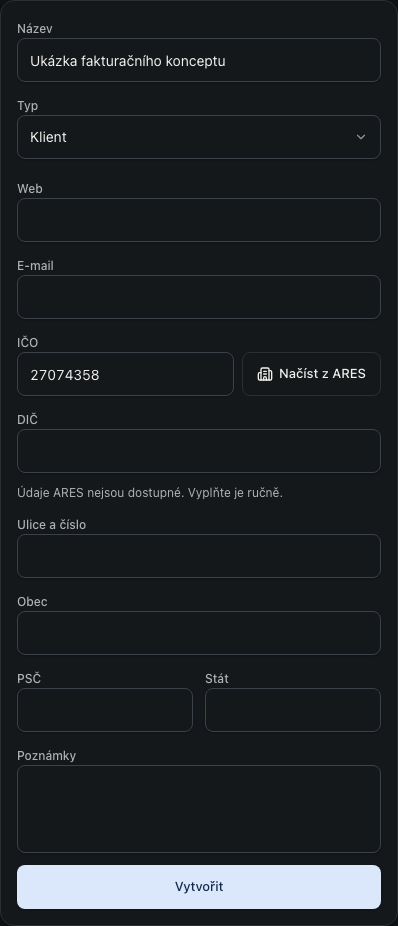
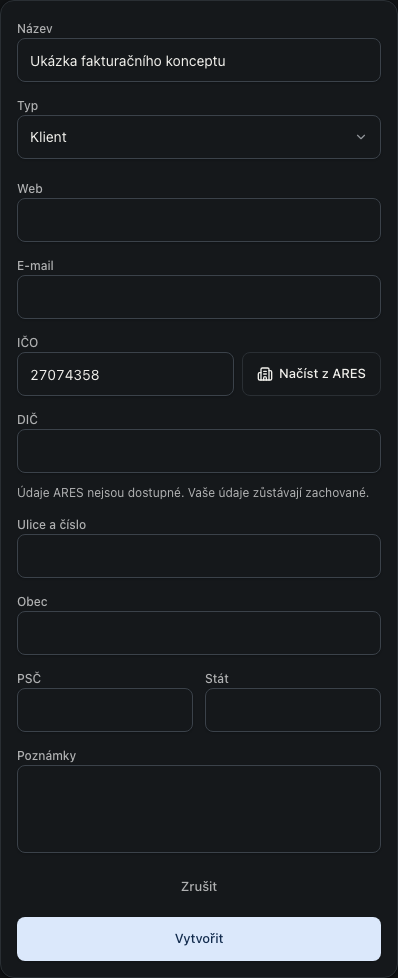
Refresh the visual audit with captured client recovery states

diff --git a/docs/reports/app-wide-audit-2026-10-23/visual-plan.html b/docs/reports/app-wide-audit-2026-10-23/visual-plan.html
@@ -4,16 +4,22 @@
 :root{color-scheme:light dark;--canvas:#f4f5f7;--surface:#fff;--ink:#1e2329;--muted:#59616c;--line:#d9dee5;--accent:#245db2;--tint:#eaf1fc;--mark:#e5a122;font-family:system-ui,-apple-system,BlinkMacSystemFont,"Segoe UI",sans-serif;line-height:1.55}
 *{box-sizing:border-box}body{margin:0;background:var(--canvas);color:var(--ink)}main{max-width:1240px;margin:auto;padding:40px 24px 64px}h1{font-size:clamp(28px,4vw,42px);letter-spacing:-.035em;line-height:1.15;margin:10px 0 16px}h2{font-size:23px;letter-spacing:-.025em;margin:0}h3{font-size:17px;margin:0 0 8px}p{margin:0 0 14px}.eyebrow{font-size:12px;font-weight:650;letter-spacing:.08em;text-transform:uppercase;color:var(--muted)}.intro{max-width:780px;font-size:17px}.notice{padding:16px 18px;background:var(--tint);border:1px solid var(--line);border-radius:10px;margin:24px 0}.meta,.source{font-size:13px;color:var(--muted)}a{color:var(--accent);text-underline-offset:3px}a:focus-visible,button:focus-visible,input:focus-visible,select:focus-visible,.screen-scroll:focus-visible,.table-scroll:focus-visible{outline:3px solid var(--accent);outline-offset:3px}.toolbar{display:flex;flex-wrap:wrap;align-items:center;gap:12px;border-block:1px solid var(--line);padding:14px 0;margin:26px 0}.segmented{display:inline-flex;gap:4px}button,select{font:inherit;min-height:44px;border:1px solid var(--line);border-radius:7px;background:var(--surface);color:var(--ink);padding:8px 14px}button{cursor:pointer}button[aria-pressed=true]{background:var(--tint);border-color:var(--accent)}label{display:inline-flex;align-items:center;gap:8px;min-height:44px}input[type=checkbox]{width:18px;height:18px;accent-color:var(--accent)}nav{display:flex;flex-wrap:wrap;gap:8px 18px;margin:0 0 28px}nav a{min-height:44px;display:inline-flex;align-items:center}.component{padding:22px;background:var(--surface);border:1px solid var(--line);border-radius:12px;margin-bottom:28px;scroll-margin-top:20px}.component-heading{display:flex;align-items:center;justify-content:space-between;flex-wrap:wrap;gap:12px;margin-bottom:6px}.status{font-size:12px;padding:5px 9px;border-radius:6px;background:var(--tint);color:var(--accent)}.screen-scroll{max-width:var(--capture-width);max-height:660px;overflow:auto;border:1px solid var(--line);border-radius:8px;background:#101214;margin:18px auto}.screen{position:relative;margin:0;width:100%}.screen img{display:block;width:100%;height:auto}.marks{position:absolute;inset:0;pointer-events:none}.mark{position:absolute;border:2px solid var(--mark);border-radius:5px}.mark b{position:absolute;top:0;left:0;background:var(--mark);color:#20170a;padding:2px 7px;font-size:12px}.mobile .screen-scroll{max-width:min(390px,var(--capture-width))}.mobile .screen{max-width:390px;margin:auto}.mobile .marks,.hide-marks .marks{display:none}.mobile:not(.hide-marks) .screen.has-mobile-marks .marks{display:block}ol{padding-left:22px;max-width:88ch}li+li{margin-top:7px}.table-scroll{overflow:auto;border:1px solid var(--line);border-radius:8px;margin-top:18px}table{width:100%;border-collapse:collapse;min-width:700px;text-align:left;font-size:14px}th,td{padding:12px;vertical-align:top;border-bottom:1px solid var(--line)}thead th{background:var(--tint)}tbody th{width:20%}section+section{margin-top:32px}.next-grid{display:grid;grid-template-columns:repeat(auto-fit,minmax(240px,1fr));gap:16px}.next-grid article{background:var(--surface);padding:18px;border:1px solid var(--line);border-radius:9px}.next-grid p{margin:0;font-size:14px}.note{font-size:13px;color:var(--muted)}footer{border-top:1px solid var(--line);margin-top:36px;padding-top:18px;color:var(--muted);font-size:13px}@media(prefers-color-scheme:dark){:root{--canvas:#101214;--surface:#191c20;--ink:#edf0f4;--muted:#adb5c0;--line:#343b45;--accent:#98bbf6;--tint:#233249}}@media(max-width:600px){main{padding:24px 14px 44px}.component{padding:14px}.status{font-size:11px}.toolbar{gap:8px}.source{overflow-wrap:anywhere}}@media print{.toolbar,nav{display:none}.screen-scroll{max-height:none;overflow:visible}.component{break-inside:avoid}body{background:white;color:black}}
 </style></head><body><main>
-<header><p class="eyebrow">OwnDashboard · code and UX audit</p><h1>Components and remaining review</h1><p class="intro">This working plan highlights real components already changed and keeps the remaining review visible. All images are authentic preview captures using documented fixture data.</p><p class="meta">Review source snapshot <strong>2154373</strong> · 660 inventory entries · 0 awaiting review · 220 in partial review. Capture provenance appears on each component; older images were not recaptured at this review snapshot.</p></header>
+<header><p class="eyebrow">OwnDashboard · code and UX audit</p><h1>Components and remaining review</h1><p class="intro">This working plan highlights real components already changed and keeps the remaining review visible. All images are authentic preview captures using documented fixture data.</p><p class="meta">Review source snapshot <strong>5d7da1d</strong> · 661 inventory entries · 0 awaiting review · 218 in partial review. Capture provenance appears on each component; older images were not recaptured at this review snapshot.</p></header>
 <div class="notice" role="note"><strong>The app-wide audit is still in progress.</strong> The source reading pass is complete; findings, rendered checks and production release remain separate steps. Main merge, prepared migrations and final release checks remain pending. <a href="review.md">Read the evidence and limitations</a>.</div>
 <div class="toolbar"><div class="segmented" role="group" aria-label="Screenshot viewport"><button type="button" data-view="desktop" aria-pressed="true">Desktop</button><button type="button" data-view="mobile" aria-pressed="false">Mobile</button></div><label><input id="highlights" type="checkbox" checked>Highlight changed areas</label><span class="note">Mobile captures retain their height; mapped mobile highlights are available on the client form.</span></div>
-<nav aria-label="Review areas"><a href="#client-registry">Client draft: captured register fill</a><a href="#spend-categories">Confirmed category choices</a><a href="#private-preferences">Settings: private drafts and matching fields</a><a href="#editor-typography">Notes: consistent native typography</a><a href="#legacy-headline">DNESKAi: recover a legacy first slide</a><a href="#task-creation">Tasks: retained drafts and confirmed creation</a><a href="#task-density">Tasks: centered groups and compact rows</a><a href="#native-focus">Keyboard focus and native dark controls</a><a href="#weekly-review">Weekly planning: retained drafts and compact actions</a><a href="#invoice-save">Invoice save recovery and reachable actions</a><a href="#audio-preview">Music preview failure and link recovery</a><a href="#install">Installation prompt and shared action sizes</a><a href="#source-edit">Source settings and retained drafts</a><a href="#daily-mix">Daily publishing limits and draft recovery</a><a href="#login">Sign-in and recovery</a><a href="#repository">Repository notes</a><a href="#operations">Project operations and note recovery</a><a href="#project-details">Project edit recovery</a><a href="#history">Repository activity</a><a href="#feedback">Notifications and mobile navigation</a><a href="#guest-notice">Guest tour notice and privacy</a><a href="#finance">Money overview</a><a href="#monitoring">Cron history</a><a href="#remaining">Remaining work</a><a href="#coverage">Page coverage</a></nav>
+<nav aria-label="Review areas"><a href="#client-refresh">Clients: visible refresh and action recovery</a><a href="#client-registry">Client draft: captured fill and retained saves</a><a href="#spend-categories">Confirmed category choices</a><a href="#private-preferences">Settings: private drafts and matching fields</a><a href="#editor-typography">Notes: consistent native typography</a><a href="#legacy-headline">DNESKAi: recover a legacy first slide</a><a href="#task-creation">Tasks: retained drafts and confirmed creation</a><a href="#task-density">Tasks: centered groups and compact rows</a><a href="#native-focus">Keyboard focus and native dark controls</a><a href="#weekly-review">Weekly planning: retained drafts and compact actions</a><a href="#invoice-save">Invoice save recovery and reachable actions</a><a href="#audio-preview">Music preview failure and link recovery</a><a href="#install">Installation prompt and shared action sizes</a><a href="#source-edit">Source settings and retained drafts</a><a href="#daily-mix">Daily publishing limits and draft recovery</a><a href="#login">Sign-in and recovery</a><a href="#repository">Repository notes</a><a href="#operations">Project operations and note recovery</a><a href="#project-details">Project edit recovery</a><a href="#history">Repository activity</a><a href="#feedback">Notifications and mobile navigation</a><a href="#guest-notice">Guest tour notice and privacy</a><a href="#finance">Money overview</a><a href="#monitoring">Cron history</a><a href="#remaining">Remaining work</a><a href="#coverage">Page coverage</a></nav>
+<article id="client-refresh" class="component">
+<div class="component-heading"><h2>Clients: visible refresh and action recovery</h2><span class="status">Captured persistence and recovery checked · migration/release pending</span></div>
+<p class="source">src/components/panels/clients-panel.tsx · Czech dark · actual synthetic failed-refresh and conflict states · Client recovery application (5d7da1d), 25 October</p>
+<div class="screen-scroll" style="--capture-width:1120px" role="region" aria-label="Clients: visible refresh and action recovery screenshot" tabindex="0"><figure class="screen has-mobile-marks" data-desktop-marks="[{&quot;x&quot;:0.5,&quot;y&quot;:16,&quot;w&quot;:99,&quot;h&quot;:21,&quot;n&quot;:1},{&quot;x&quot;:1,&quot;y&quot;:87,&quot;w&quot;:98,&quot;h&quot;:11,&quot;n&quot;:2}]" data-mobile-marks="[{&quot;x&quot;:0.5,&quot;y&quot;:23,&quot;w&quot;:99,&quot;h&quot;:24,&quot;n&quot;:1},{&quot;x&quot;:3,&quot;y&quot;:90,&quot;w&quot;:94,&quot;h&quot;:8,&quot;n&quot;:2}]" data-desktop="assets/client-refresh-cs-1440.png" data-mobile="assets/client-refresh-cs-430.png"><img src="assets/client-refresh-cs-1440.png" alt="Actual dev-preview capture of Clients: visible refresh and action recovery" loading="lazy" width="1440">
+<div class="marks" aria-hidden="true"><span class="mark" style="left:0.5%;top:16%;width:99%;height:21%"><b>1</b></span><span class="mark" style="left:1%;top:87%;width:98%;height:11%"><b>2</b></span></div></figure></div>
+<ol><li>Confirmed clients stay visible when a refresh fails. Short guidance and one retry share a desktop row; mobile gives the message and action their full width.</li><li>An unconfirmed deletion remains visible outside the row disclosure. Reload confirms current data before the next captured-version action; stale callbacks preserve newer cache data.</li><li>Saved client changes use exact owned receipts. Pending work protects exits, and confirmed deletion restores keyboard focus. These captures use mocked reads and make no owner-record changes.</li></ol></article>
 <article id="client-registry" class="component">
-<div class="component-heading"><h2>Client draft: captured register fill</h2><span class="status">Draft fill and form checked · persistence/release pending</span></div>
-<p class="source">src/components/panels/clients-panel.tsx · Czech dark · actual unavailable fixture form · Finding 215 application snapshot (082fc34), 25 October</p>
-<div class="screen-scroll" style="--capture-width:896px" role="region" aria-label="Client draft: captured register fill screenshot" tabindex="0"><figure class="screen has-mobile-marks" data-desktop-marks="[{&quot;x&quot;:2,&quot;y&quot;:28,&quot;w&quot;:47,&quot;h&quot;:12,&quot;n&quot;:1},{&quot;x&quot;:89,&quot;y&quot;:90,&quot;w&quot;:10,&quot;h&quot;:8,&quot;n&quot;:2}]" data-mobile-marks="[{&quot;x&quot;:4,&quot;y&quot;:35,&quot;w&quot;:92,&quot;h&quot;:11,&quot;n&quot;:1},{&quot;x&quot;:4,&quot;y&quot;:92,&quot;w&quot;:92,&quot;h&quot;:6,&quot;n&quot;:2}]" data-desktop="assets/client-registry-cs-1440.png" data-mobile="assets/client-registry-cs-430.png"><img src="assets/client-registry-cs-1440.png" alt="Actual dev-preview capture of Client draft: captured register fill" loading="lazy" width="1440">
-<div class="marks" aria-hidden="true"><span class="mark" style="left:2%;top:28%;width:47%;height:12%"><b>1</b></span><span class="mark" style="left:89%;top:90%;width:10%;height:8%"><b>2</b></span></div></figure></div>
-<ol><li>A centered bounded form and compact desktop Create action remove the stretched single-word button. Mobile keeps the full-width action.</li><li>The registration number and lookup retain equal heights and readable width. Tax fields stack before the middle-width column would squeeze the number.</li><li>A failed or mismatched draft fill keeps typed values. Changed number, draft or owner cancels the lookup; later name edits survive. Saved-record confirmation and draft-exit persistence remain under review.</li></ol></article>
+<div class="component-heading"><h2>Client draft: captured fill and retained saves</h2><span class="status">Draft, confirmed writes and exits checked · migration/release pending</span></div>
+<p class="source">src/components/panels/clients-panel.tsx · Czech dark · actual unavailable fixture form · Client recovery application (5d7da1d), 25 October</p>
+<div class="screen-scroll" style="--capture-width:896px" role="region" aria-label="Client draft: captured fill and retained saves screenshot" tabindex="0"><figure class="screen has-mobile-marks" data-desktop-marks="[{&quot;x&quot;:2,&quot;y&quot;:28,&quot;w&quot;:47,&quot;h&quot;:12,&quot;n&quot;:1},{&quot;x&quot;:80,&quot;y&quot;:90,&quot;w&quot;:18,&quot;h&quot;:8,&quot;n&quot;:2}]" data-mobile-marks="[{&quot;x&quot;:4,&quot;y&quot;:35,&quot;w&quot;:92,&quot;h&quot;:11,&quot;n&quot;:1},{&quot;x&quot;:4,&quot;y&quot;:88,&quot;w&quot;:92,&quot;h&quot;:10,&quot;n&quot;:2}]" data-desktop="assets/client-registry-cs-1440.png" data-mobile="assets/client-registry-cs-430.png"><img src="assets/client-registry-cs-1440.png" alt="Actual dev-preview capture of Client draft: captured fill and retained saves" loading="lazy" width="1440">
+<div class="marks" aria-hidden="true"><span class="mark" style="left:2%;top:28%;width:47%;height:12%"><b>1</b></span><span class="mark" style="left:80%;top:90%;width:18%;height:8%"><b>2</b></span></div></figure></div>
+<ol><li>The registration number and lookup retain equal heights and readable width. Tax fields stack before middle-width columns would squeeze the number. Foreign registration numbers keep their letters and formatting.</li><li>The centered bounded form keeps compact desktop footer actions and full-width mobile actions. Cancel offers guarded discard rather than silently losing the draft.</li><li>A failed or mismatched fill keeps typed values. Changed input, draft or owner cancels the lookup, and later name edits survive. Unconfirmed saves retain the draft and retry id; pending writes lock fields and exits.</li></ol></article>
 <article id="spend-categories" class="component">
 <div class="component-heading"><h2>Confirmed category choices</h2><span class="status">Implemented · final release pending</span></div>
 <p class="source">src/components/category-select.tsx · Czech · actual synthetic category dialog crops · Finding 208 application snapshot (f3ff658), 25 October</p>
@@ -148,16 +154,16 @@
 <ol><li>One selected-day list replaces duplicate Today/history rows. It starts with ten entries.</li><li>Incomplete history and failed refreshes stay explicit; day navigation and Show more remain local.</li></ol></article>
 <section id="remaining"><h2>Next areas to finish</h2><p>These are pending work, not completed fixes.</p><div class="next-grid"><article><h3>Settings and metadata writes</h3><p>Finish Competition and remaining entity writes, including existing-client persistence. Project, category, private-preference and manual-task receipts have targeted evidence.</p></article><article><h3>Long lists and shared controls</h3><p>Limit initial rendering where lists can grow, check heading structure and keep mobile targets consistent.</p></article><article><h3>Marketing and DNESKAi</h3><p>Close provider, media-cache, content-policy and workspace findings with offline regressions and actual interface checks.</p></article><article><h3>Release and documentation</h3><p>Reconcile current docs, apply verified migrations and run the complete optimized interaction matrix before the main merge.</p></article></div></section>
 <section id="coverage"><h2>Page coverage at this snapshot</h2><p>Every area still needs its final release pass. The source inventory tracks individual files separately.</p><div class="table-scroll" role="region" aria-label="Audit coverage table" tabindex="0"><table><caption class="note">Copied from the current audit report; no entry is promoted to complete by this page.</caption><thead><tr><th scope="col">Area</th><th scope="col">Destinations</th><th scope="col">Recorded state</th></tr></thead><tbody><tr><th scope="row">Shared boundaries</th><td>Authenticated catch-all, shell, navigation, query cache, initial loading</td><td>Reviewing</td></tr>
-<tr><th scope="row">Execution</th><td>Home, Work, Inbox, Tasks, Calendar, Goals, Dates</td><td>Home/Tasks/Calendar targeted fixes checked; Work/planning boundary closure and final matrix pending</td></tr>
-<tr><th scope="row">Projects and clients</th><td>Projects list and all workspace tabs, Competition, Clients, Opportunities</td><td>Project/client core checks passed; repository/opportunity/competition boundary closure and final matrix pending</td></tr>
+<tr><th scope="row">Execution</th><td>Home, Work, Inbox, Tasks, Calendar, Goals, Dates</td><td>Home/Tasks/Calendar and captured weekly saves checked; aggregate/monitoring boundaries and final release pending</td></tr>
+<tr><th scope="row">Projects and clients</th><td>Projects list and all workspace tabs, Competition, Clients, Opportunities</td><td>Project/client captured persistence checked; Competition/opportunity/shared metadata and final release pending</td></tr>
 <tr><th scope="row">Career</th><td>Board, saved roles, applications, history, letters</td><td>Core recovery/date checks passed; import/provider boundary closure and final matrix pending</td></tr>
-<tr><th scope="row">Finance</th><td>Money, Accounts, Transactions, Categories, Subscriptions, Invoices and print</td><td>Core pages/controls checked; Bank/import/rule fixes checked; invoice draft/QR guards and final optimized checks pending</td></tr>
+<tr><th scope="row">Finance</th><td>Money, Accounts, Transactions, Categories, Subscriptions, Invoices and print</td><td>Core finance/bank/import/rule and invoice save/QR checks pass; legacy documents/remaining writes and final release pending</td></tr>
 <tr><th scope="row">Knowledge</th><td>Notes, Prompts, Tools, Links, IG TIPS, References</td><td>All six Knowledge destinations have targeted review/checks; shared integration and final release checks remain</td></tr>
 <tr><th scope="row">Marketing</th><td>Review, calendar, knowledge, results, Workflows, DNESKAi workspace</td><td>Daily mix/source admission and small guard helpers checked; workspace/provider repairs and final matrix pending</td></tr>
-<tr><th scope="row">Account and public boundaries</th><td>Settings, Login, Guest, unknown routes, dev-preview guard, OAuth, PWA</td><td>Login/PWA/OAuth fixes checked; Settings preference/project writes, remaining session boundaries and final release pending</td></tr>
+<tr><th scope="row">Account and public boundaries</th><td>Settings, Login, Guest, unknown routes, dev-preview guard, OAuth, PWA</td><td>Login/PWA/OAuth/private-preference checks pass; remaining integration/session boundaries and final release pending</td></tr>
 <tr><th scope="row">Backend and operations</th><td>API routes, cron/provider budgets, database ownership and query plans</td><td>Reviewing</td></tr>
 <tr><th scope="row">Release</th><td>Current-doc reconciliation, full validation, additive migrations, PR, main merge, deployment</td><td>Pending</td></tr></tbody></table></div></section>
-<footer>Evidence: <a href="review.md">audit report</a> · <a href="source-inventory.json">source inventory</a> · <a href="dev-finance-cpu.json">local finance CPU samples</a> · <a href="needed-cleanup-cpu.json">local cleanup CPU samples</a> · <a href="currency-format-cpu.json">local currency-format CPU samples</a> · <a href="markdown-render-cpu.json">local document-renderer CPU samples</a> · <a href="weekly-channels-cpu.json">local weekly-classification CPU samples</a> · <a href="focus-contrast.json">native focus contrast samples</a> · <a href="feed-sanitizer-cpu.json">local feed cleanup CPU samples</a> · <a href="career-alias-cpu.json">local Career lookup CPU samples</a> · <a href="prague-formatting-cpu.json">local Prague formatting CPU samples</a> · <a href="source-recovery-cpu.json">local source-recovery CPU samples</a> · <a href="cost-aggregate-query-plan.json">owned cost aggregate query plan</a> · <a href="career-html-cpu.json">bounded Career HTML probe</a>. Performance samples measure local synthetic CPU work. Production release remains pending.</footer>
+<footer>Evidence: <a href="review.md">audit report</a> · <a href="source-inventory.json">source inventory</a> · <a href="dev-finance-cpu.json">local finance CPU samples</a> · <a href="needed-cleanup-cpu.json">local cleanup CPU samples</a> · <a href="currency-format-cpu.json">local currency-format CPU samples</a> · <a href="dneskai-cost-format-cpu.json">local costs-view CPU samples</a> · <a href="markdown-render-cpu.json">local document-renderer CPU samples</a> · <a href="weekly-channels-cpu.json">local weekly-classification CPU samples</a> · <a href="focus-contrast.json">native focus contrast samples</a> · <a href="feed-sanitizer-cpu.json">local feed cleanup CPU samples</a> · <a href="career-alias-cpu.json">local Career lookup CPU samples</a> · <a href="prague-formatting-cpu.json">local Prague formatting CPU samples</a> · <a href="source-recovery-cpu.json">local source-recovery CPU samples</a> · <a href="cost-aggregate-query-plan.json">owned cost aggregate query plan</a> · <a href="career-html-cpu.json">bounded Career HTML probe</a>. Performance samples measure local synthetic CPU work. Production release remains pending.</footer>
 </main><script>
 const buttons=[...document.querySelectorAll('[data-view]')];
 for(const button of buttons)button.addEventListener('click',()=>{const mobile=button.dataset.view==='mobile';document.body.classList.toggle('mobile',mobile);for(const item of buttons)item.setAttribute('aria-pressed',String(item===button));for(const figure of document.querySelectorAll('.screen')){figure.querySelector('img').src=mobile?figure.dataset.mobile:figure.dataset.desktop;const marks=JSON.parse(mobile?figure.dataset.mobileMarks:figure.dataset.desktopMarks);for(const [i,node] of [...figure.querySelectorAll('.mark')].entries()){const mark=marks[i];if(mark)Object.assign(node.style,{left:mark.x+'%',top:mark.y+'%',width:mark.w+'%',height:mark.h+'%'});}figure.closest('.screen-scroll').scrollTop=0;}});

diff --git a/docs/reports/app-wide-audit-2026-10-23/review.md b/docs/reports/app-wide-audit-2026-10-23/review.md
@@ -11,13 +11,13 @@ Each destination needs source/data-flow review, relevant business and failure ch
 | Area | Destinations | State |
 | --- | --- | --- |
 | Shared boundaries | Authenticated catch-all, shell, navigation, query cache, initial loading | Reviewing |
-| Execution | Home, Work, Inbox, Tasks, Calendar, Goals, Dates | Home/Tasks/Calendar targeted fixes checked; Work/planning boundary closure and final matrix pending |
-| Projects and clients | Projects list and all workspace tabs, Competition, Clients, Opportunities | Project/client core checks passed; repository/opportunity/competition boundary closure and final matrix pending |
+| Execution | Home, Work, Inbox, Tasks, Calendar, Goals, Dates | Home/Tasks/Calendar and captured weekly saves checked; aggregate/monitoring boundaries and final release pending |
+| Projects and clients | Projects list and all workspace tabs, Competition, Clients, Opportunities | Project/client captured persistence checked; Competition/opportunity/shared metadata and final release pending |
 | Career | Board, saved roles, applications, history, letters | Core recovery/date checks passed; import/provider boundary closure and final matrix pending |
-| Finance | Money, Accounts, Transactions, Categories, Subscriptions, Invoices and print | Core pages/controls checked; Bank/import/rule fixes checked; invoice draft/QR guards and final optimized checks pending |
+| Finance | Money, Accounts, Transactions, Categories, Subscriptions, Invoices and print | Core finance/bank/import/rule and invoice save/QR checks pass; legacy documents/remaining writes and final release pending |
 | Knowledge | Notes, Prompts, Tools, Links, IG TIPS, References | All six Knowledge destinations have targeted review/checks; shared integration and final release checks remain |
 | Marketing | Review, calendar, knowledge, results, Workflows, DNESKAi workspace | Daily mix/source admission and small guard helpers checked; workspace/provider repairs and final matrix pending |
-| Account and public boundaries | Settings, Login, Guest, unknown routes, dev-preview guard, OAuth, PWA | Login/PWA/OAuth fixes checked; Settings preference/project writes, remaining session boundaries and final release pending |
+| Account and public boundaries | Settings, Login, Guest, unknown routes, dev-preview guard, OAuth, PWA | Login/PWA/OAuth/private-preference checks pass; remaining integration/session boundaries and final release pending |
 | Backend and operations | API routes, cron/provider budgets, database ownership and query plans | Reviewing |
 | Release | Current-doc reconciliation, full validation, additive migrations, PR, main merge, deployment | Pending |
 
@@ -1138,3 +1138,10 @@ The [local expression probe](dneskai-cost-format-cpu.json) compares the actual p
 Actual Czech recovery captures show the long refresh paragraph squeezed beside its button. The notice now gives text the full mobile width and places one full-width action beneath it; desktop keeps the short guidance and compact action on one row. Both languages remove the repeated instruction already expressed by the action label. The confirmed list and distinct action conflict remain visible.
 
 Four final EN/CS desktop/mobile browser cases pass in 11.6 seconds, including six widths, full-width stacked message/action geometry below 768px, 44px targets, axe, retained data and explicit successful retry. Targeted ESLint passes. Actual desktop/mobile form and recovery captures use synthetic data. Mobile crops use a taller viewport so the fixed navigation does not cover a component taller than the earlier capture viewport; no navigation is hidden for the picture. The visual-plan update records these source snapshots separately from older captures. Consolidated release and production rollout remain open.
+
+
+## Visual-plan checkpoint — 24 actual desktop/mobile pairs
+
+The working HTML plan now shows twenty-four authentic desktop/mobile component pairs across ten review areas. It adds client refresh/action recovery and replaces the client form images with the captured persistence/discard implementation from application `5d7da1d`. All four new captures use Czech dark synthetic fixtures; a tall mobile viewport keeps the complete form above fixed navigation. The plan labels this source separately from the previous category/private-preference/editor and older component snapshots. Current coverage labels now reflect completed client persistence, weekly saves, private preferences and invoice QR guards while retaining the remaining source/release work.
+
+The rebuilt artifact loads all twenty-four images in each desktop/mobile mode, fits 390px/1440px in both system color schemes and retains working highlight toggles and mapped mobile/desktop coordinates. The local browser check reports no page errors; targeted builder ESLint passes. Actual form/recovery crops and rendered artifact layouts were inspected. CPU evidence links include the implemented costs-view measurement. This updates the review artifact, not production or the unreleased migration state.

diff --git a/docs/design/visual-qa.md b/docs/design/visual-qa.md
@@ -1,5 +1,7 @@
 # OwnDashboard visual QA
 
+> Visual-plan checkpoint (2026-10-25): twenty-four actual desktop/mobile component pairs now include client refresh recovery and retained/discardable client forms from `5d7da1d`. All 48 mode/image loads, 390px/1440px light/dark reflow, highlight toggles and mapped coordinates pass with no artifact page errors. Older captures retain their own source labels. These are synthetic preview captures, not owner records or a production rollout.
+
 > Client notice refinement (2026-10-25, finding 222): four final EN/CS native desktop/mobile cases pass in 11.6 seconds. The shortened refresh message and retry stack at full width below 768px and share a compact desktop row. Six-width geometry, 44px mobile controls, axe and recovery pass. Actual captures use synthetic data and a tall mobile viewport to avoid cropping a form behind fixed navigation.
 
 > Client recovery (2026-10-25, finding 220): twenty-two final native EN/CS desktop/mobile cases pass in 53.1 seconds. Cached-read failure retains clients with one retry; long contact/details fit six widths; unsupported saved URL schemes stay inert; confirmed deletion restores keyboard focus. Axe and captured persistence/read recovery pass. These fixture checks include intentional 503 responses and do not establish production rollout or final app-wide release.
